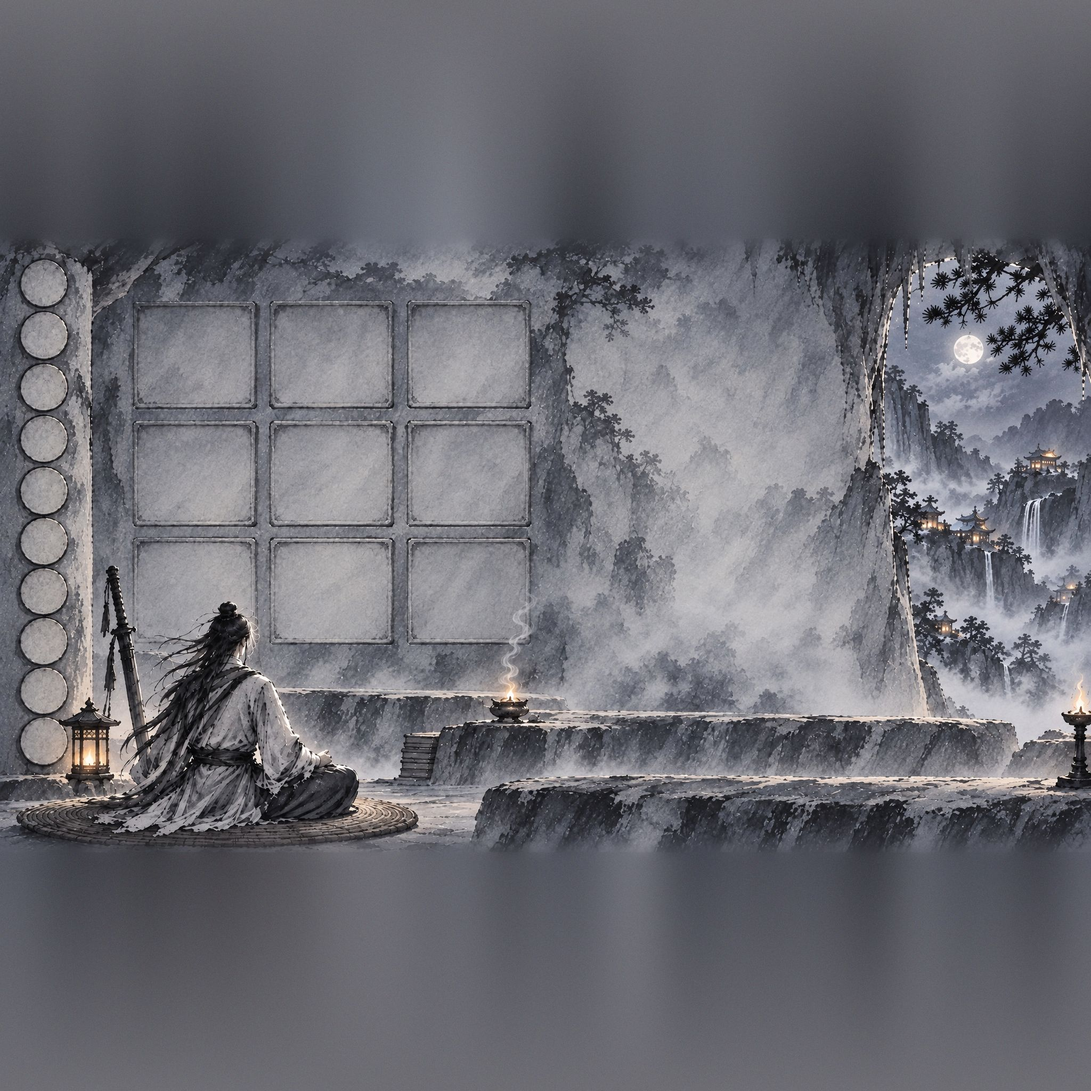
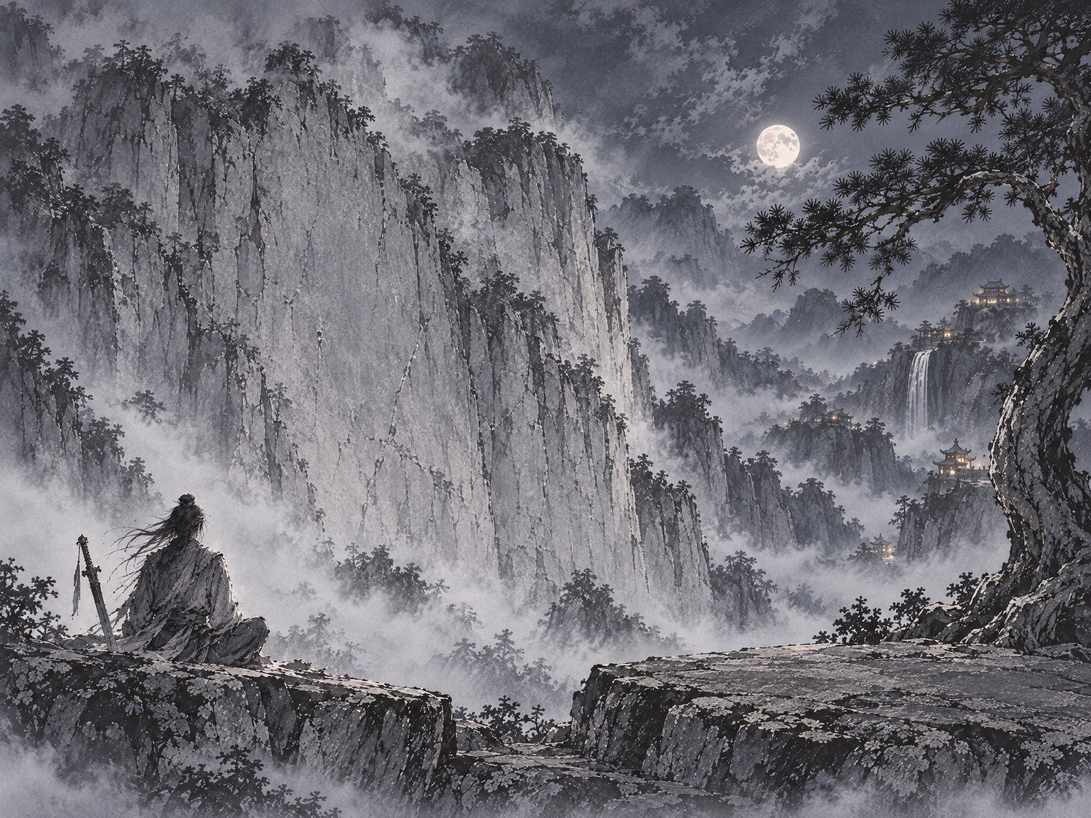
docs(bag-wugong): 原型第四版——武功改户外摩崖、行囊格收进布面

diff --git a/docs/design/bag-wugong-prototype.html b/docs/design/bag-wugong-prototype.html
@@ -51,6 +51,9 @@ button { font: inherit; color: inherit; }
 .scene.off { opacity: 0; pointer-events: none; visibility: hidden; }
 .pic { position: absolute; left: var(--pl); top: var(--pt); width: var(--pw); aspect-ratio: 16 / 9; }
 .pic > .bg { position: absolute; left: 0; right: 0; top: -38.89%; height: 177.78%; background: center / 100% 100% no-repeat; }
+/* 武功底图是 4:3 的一整幅（摩崖 + 松 + 石台），中段即 16:9 画幅 */
+#sc-wg { background: oklch(0.42 0.01 262); }
+#sc-wg .pic > .bg { top: -16.67%; height: 133.33%; }
 .vig { position: absolute; inset: 0; pointer-events: none; box-shadow: inset 0 0 60px 10px oklch(0.1 0.01 262 / .7);
   background: linear-gradient(to bottom, oklch(0.1 0.01 262 / .45), transparent 16%); }
 .head { position: absolute; left: 44px; right: 44px; top: 26px; z-index: 5; display: flex; align-items: flex-start; pointer-events: none; }
@@ -130,8 +133,9 @@ button { font: inherit; color: inherit; }
 
 /* ═══════════ 武功：崖洞壁刻 · 拓片 · 石印 ═══════════ */
 /* 石柱分类：AI 墨笔图标落在 AI 画好的空白石盘上；没有藏书的类别置灰不可点 */
-.med { position: absolute; transform: translate(-50%, -50%); width: calc(var(--pw) * .042); aspect-ratio: 1; border: 0; border-radius: 50%; background: none; cursor: pointer; padding: 0; display: grid; place-items: center; }
-.med img { width: 62%; height: 62%; object-fit: contain; filter: drop-shadow(0 1px 0 oklch(0.95 0.01 262 / .6)); opacity: .82; transition: transform .2s var(--ease); }
+.med { position: absolute; transform: translate(-50%, -50%); width: calc(var(--pw) * .036); aspect-ratio: 1; border: 0; border-radius: 50%; cursor: pointer; padding: 0; display: grid; place-items: center;
+  background: radial-gradient(circle, oklch(0.86 0.008 262 / .85) 50%, oklch(0.86 0.008 262 / 0) 72%); }
+.med img { width: 64%; height: 64%; object-fit: contain; filter: drop-shadow(0 1px 0 oklch(0.95 0.01 262 / .6)); opacity: .85; transition: transform .2s var(--ease); }
 .med:hover:not(:disabled) img { transform: scale(1.08); }
 .med.on { box-shadow: 0 0 0 1.5px oklch(0.75 0.075 76 / .75), 0 0 12px oklch(0.75 0.075 76 / .35); }
 .med.on img { filter: invert(.38) sepia(1) saturate(1.8) hue-rotate(-12deg); opacity: 1; }
@@ -139,22 +143,18 @@ button { font: inherit; color: inherit; }
 .med:focus-visible { outline: 1.5px solid var(--gold); outline-offset: 2px; }
 
 /* 壁刻：AI 画的空白石板上刻这一类的各门武学；招式像为 AI 墨线，滤镜调成阴刻 / 鎏金 / 风化 */
-.panel { position: absolute; transform: translate(-50%, -50%); width: calc(var(--pw) * .103); height: calc(var(--pw) * .088); border: 0; background: none; padding: 0; cursor: pointer;
-  display: flex; flex-direction: column; align-items: center; }
-.panel .nm { font-family: var(--font-display); font-weight: 700; font-size: clamp(12px, calc(var(--pw) * .0102), 15px); letter-spacing: .06em; white-space: nowrap; margin-top: 4%;
-  color: oklch(0.22 0.01 262 / .9); text-shadow: 0 1px 0 oklch(0.82 0.01 262 / .45), 0 -1px 0 oklch(0.05 0.01 262 / .7); }
-.panel img { flex: 1; min-height: 0; max-width: 78%; object-fit: contain; margin: 3% 0 6%; opacity: .55;
-  filter: brightness(0) drop-shadow(0 1px 0 oklch(0.8 0.01 262 / .5)); transition: transform .25s var(--ease); }
-.panel { border-radius: 3px; }
-/* 品质靠颜色：上乘石青、绝学朱砂，名字与石板内缘一线同色；寻常不着色 */
-.panel.q2 { box-shadow: inset 0 0 0 1.5px oklch(0.62 0.09 230 / .75); } .panel.q2 .nm { color: oklch(0.36 0.1 235); }
-.panel.q3 { box-shadow: inset 0 0 0 1.5px oklch(0.55 0.15 32 / .8); } .panel.q3 .nm { color: oklch(0.42 0.15 30); }
-/* 已装配：墨金描出招式像，不发光 */
-.panel.on img { opacity: 1; filter: brightness(0) invert(.42) sepia(1) saturate(1.6) hue-rotate(-12deg); }
-.panel.on .nm { color: oklch(0.42 0.09 70); } .panel.on .nm::after { content: ''; display: block; width: 60%; height: 1.5px; margin: 2px auto 0; background: oklch(0.5 0.09 70); }
-.panel.ghost img { opacity: .25; filter: brightness(0) blur(1.2px); }
-.panel.ghost .nm { opacity: .55; }
-.panel.sel { outline: 2px solid oklch(0.75 0.075 76 / .8); outline-offset: 1px; }
+/* 壁刻：名字与招式像直接刻在崖面上，不画框；品质靠名字颜色与名下一道短色线 */
+.panel { position: absolute; transform: translate(-50%, -50%); width: calc(var(--pw) * .1); height: calc(var(--pw) * .085); border: 0; padding: 0; cursor: pointer; border-radius: 50%;
+  display: flex; flex-direction: column; align-items: center; background: radial-gradient(ellipse 52% 54% at 50% 52%, oklch(0.84 0.008 262 / .78) 35%, oklch(0.84 0.008 262 / 0) 80%); }
+.panel .nm { font-family: var(--font-display); font-weight: 700; font-size: clamp(12px, calc(var(--pw) * .0102), 15px); letter-spacing: .06em; white-space: nowrap;
+  color: oklch(0.2 0.01 262); text-shadow: 0 1px 0 oklch(0.9 0.01 262 / .55); }
+.panel .nm::after { content: ''; display: block; width: 50%; height: 2px; margin: 2px auto 0; border-radius: 1px; background: transparent; }
+.panel.q2 .nm { color: oklch(0.36 0.1 235); } .panel.q2 .nm::after { background: oklch(0.5 0.1 235 / .8); }
+.panel.q3 .nm { color: oklch(0.42 0.15 30); } .panel.q3 .nm::after { background: oklch(0.52 0.15 30 / .85); }
+.panel img { flex: 1; min-height: 0; max-width: 80%; object-fit: contain; margin: 2% 0 4%; opacity: .72; filter: brightness(0) drop-shadow(0 1px 0 oklch(0.9 0.01 262 / .5)); transition: transform .25s var(--ease); }
+.panel.on img { opacity: 1; filter: brightness(0) invert(.42) sepia(1) saturate(1.6) hue-rotate(-12deg) drop-shadow(0 1px 0 oklch(0.9 0.01 262 / .4)); }
+.panel.ghost img { opacity: .22; filter: brightness(0) blur(1.2px); } .panel.ghost .nm { opacity: .5; }
+.panel.sel { background: radial-gradient(ellipse 52% 54% at 50% 52%, oklch(0.86 0.05 80 / .9) 35%, oklch(0.86 0.05 80 / 0) 80%); }
 .panel:hover img { transform: scale(1.05); }
 .panel:focus-visible { outline: 1.5px solid var(--gold); outline-offset: 2px; }
 .pager { position: absolute; transform: translateX(-50%); display: flex; gap: 14px; align-items: center; font-family: var(--font-display); font-size: 15px; color: var(--ink); text-shadow: 0 0 6px #000; }
@@ -162,7 +162,7 @@ button { font: inherit; color: inherit; }
 .pager button:disabled { opacity: .3; cursor: default; }
 
 /* 拓片：AI 画的空白拓片纸钉在石壁上，写选中那门的详情 */
-.rub { position: absolute; left: 51.5%; top: 2%; width: 37%; height: 68%; background: url('../../code/public/art/wugong/rubbing.png') center / 100% 100% no-repeat;
+.rub { position: absolute; left: 55%; top: 6%; width: 33%; height: 70%; background: url('../../code/public/art/wugong/rubbing.png') center / 100% 100% no-repeat;
   filter: drop-shadow(0 8px 18px #000); padding: 6.5% 6.5% 4.5%; color: var(--paper-ink); display: flex; flex-direction: column; container-type: inline-size; }
 .rub .top { display: flex; gap: 4%; }
 .rub .fig { width: 24%; aspect-ratio: 1; flex: none; display: grid; place-items: center; }
@@ -210,13 +210,13 @@ button { font: inherit; color: inherit; }
 @keyframes rubin { from { opacity: .2; transform: translateY(-6px) rotate(-.6deg); } }
 
 /* 石印装配：AI 画的空白石印立在石台上，刻装配的名字；第一枚大印是主修内功 */
-.seals { position: absolute; left: 39.5%; bottom: 20%; width: 58%; display: flex; align-items: flex-end; gap: .55%; }
-.seal { position: relative; flex: none; width: calc(var(--pw) * .034); aspect-ratio: 155 / 240; border: 0; padding: 0; cursor: pointer;
+.seals { position: absolute; left: 54%; bottom: 13%; width: 46%; display: flex; align-items: flex-end; gap: .55%; }
+.seal { position: relative; flex: none; width: calc(var(--pw) * .03); aspect-ratio: 155 / 240; border: 0; padding: 0; cursor: pointer;
   background: url('../../code/public/art/wugong/seal.png') center / 100% 100% no-repeat; filter: drop-shadow(0 4px 6px #000);
   display: grid; place-items: center; transition: transform .2s var(--ease); }
 .seal span { writing-mode: vertical-rl; font-family: var(--font-display); font-weight: 700; font-size: clamp(11px, calc(var(--pw) * .0092), 14px); letter-spacing: 0; line-height: 1; white-space: nowrap;
   padding: 5px 2px; border-radius: 2px; background: oklch(0.12 0.01 262 / .78); color: oklch(0.93 0.015 85); }
-.seal.main { width: calc(var(--pw) * .042); }
+.seal.main { width: calc(var(--pw) * .037); }
 .seal.main span { color: oklch(0.86 0.1 78); font-size: clamp(12px, calc(var(--pw) * .0102), 15px); }
 .seal.empty { opacity: .7; cursor: default; filter: grayscale(1) drop-shadow(0 4px 6px #000); }
 .seal:not(.empty):hover { transform: translateY(-3px); }
@@ -248,7 +248,7 @@ button { font: inherit; color: inherit; }
   </section>
   <section class="scene off" id="sc-wg">
     <div class="pic"><div class="bg" style="background-image:url('../../code/public/art/wugong/bg-tall.jpg')"></div>
-      <div id="meds"></div><div id="panels"></div><div class="pager" id="pager" style="left:30.4%;top:68.5%"></div>
+      <div id="meds"></div><div id="panels"></div><div class="pager" id="pager" style="left:42%;top:63%"></div>
       <div class="rub" id="rub"></div><div class="seals" id="seals"></div></div>
     <div class="vig"></div>
     <div class="head"><div><h1>武功</h1></div></div>
@@ -284,7 +284,7 @@ new ResizeObserver(() => { place(); if (page === 'bag') drawBag(); }).observe($(
 const WEAR_AT = { 佩饰: [[27, 28], [37.5, 24]], 衣甲: [[25.5, 37], [12, 33]], 暗器: [[27, 47], [37.5, 46]], 兵器: [[20.5, 56], [12, 58]] };
 const LEFT = { 衣甲: 1, 兵器: 1 };
 /* 包袱布面（画幅 %）：格子在这块里按格数排、居中 */
-const CLOTH = { x: 50, y: 33.5, w: 42, h: 52 };
+const CLOTH = { x: 47.5, y: 37.5, w: 44, h: 47 };
 let sort = 'new', sel = null;
 const cellsOf = (it) => SHAPE[it.slot][0] * SHAPE[it.slot][1];
 const better = (it) => { const w = st.worn[it.slot]; if (!w) return false; const sum = (g) => BASE.reduce((a, k) => a + (g.base[k] || 0) * (k === '气血' ? .1 : 1), 0); return sum(it) > sum(w); };
@@ -364,11 +364,11 @@ $('sellLow').onclick = () => { const low = st.bag.filter((g) => g.grade < 3); st
 /* 石柱十枚石盘（画幅 %），自上而下：内功 + 九类 */
 const CATS = ['内功', '剑', '刀', '枪', '棍', '拳', '掌', '指', '腿', '暗器'];
 const CAT_FILE = { 内功: 'neigong', 剑: 'jian', 刀: 'dao', 枪: 'qiang', 棍: 'gun', 拳: 'quan', 掌: 'zhang', 指: 'zhi', 腿: 'tui', 暗器: 'anqi' };
-const MED_Y = [7.6, 16, 24.4, 32.6, 41, 49.3, 57.4, 65.6, 73.8, 82];
+const MED_Y = [6, 13, 20, 27, 34, 41, 48, 55, 62, 69];
 /* 壁上 3 × 3 空白石板中心（画幅 %） */
-const PANEL_X = [17.8, 30.3, 43], PANEL_Y = [19, 38.6, 58.2];
+const PANEL_X = [16, 29, 42], PANEL_Y = [13, 32, 51];
 /* 左下那块石板被打坐的人挡住，不刻字：一页八门 */
-const SLOTS = [0, 1, 2, 3, 4, 5, 7, 8], PER = SLOTS.length;
+const SLOTS = [0, 1, 2, 3, 4, 5, 7, 8], PER = SLOTS.length; // 左下是打坐的人
 const CN = ['', '一', '二', '三', '四', '五', '六', '七'];
 const QN = { 寻常: 1, 上乘: 2, 绝学: 3 };
 /* 招式像：每类四张 AI 墨像，同类各门按名字散列取一张 */
@@ -392,7 +392,7 @@ const itemsOf = (c) => c === '内功' ? NG.map((n) => ({ ...n, cat: '内功', ng
 function drawWg() {
   // 石柱分类
   $('meds').innerHTML = CATS.map((c, i) => { const n = itemsOf(c).length;
-    return `<button class="med${cat === c ? ' on' : ''}" style="left:4.05%;top:${MED_Y[i]}%" ${n ? '' : 'disabled'} aria-label="${c}" data-c="${c}" data-tip="${c} · ${n ? n + (c === '内功' ? ' 部' : ' 门') : '尚无'}"><img src="${ART}/wugong/ic-${CAT_FILE[c]}.png" alt=""></button>`; }).join('');
+    return `<button class="med${cat === c ? ' on' : ''}" style="left:3.6%;top:${MED_Y[i]}%" ${n ? '' : 'disabled'} aria-label="${c}" data-c="${c}" data-tip="${c} · ${n ? n + (c === '内功' ? ' 部' : ' 门') : '尚无'}"><img src="${ART}/wugong/ic-${CAT_FILE[c]}.png" alt=""></button>`; }).join('');
   $('meds').querySelectorAll('.med').forEach((b) => b.onclick = () => { cat = b.dataset.c; wpage = 0; drawWg(); });
   // 壁刻：这一类的各门，九门一页
   const items = itemsOf(cat), pages = Math.max(1, Math.ceil(items.length / PER));

diff --git a/changelog.d/feature-bag-wugong-redesign.md b/changelog.d/feature-bag-wugong-redesign.md
@@ -3,3 +3,4 @@
 - **行囊与武功改版原型**：`docs/design/bag-wugong-prototype.html`。行囊为雾中人影 + 蓝印花布包袱（人影四处挂点引出穿戴，布面上形态格，点物件出布贴纸签）；武功为崖洞石壁（石柱分类、壁刻各门武学、拓片写详情与招式、石印装配）。方向挑选页 `docs/design/concepts/bag-wugong-pick*.html`、`bag-pick-4.html`；素材 `art/xingnang/`、`art/wugong/`（底图与上下续画版、纸签、拓片、石印、十个招式像）。
 - **原型第二版**：两页底图提亮为淡墨；武功石柱改 AI 墨笔类别图标（无藏书置灰不可点）、壁刻品质改用石青 / 朱砂描边与名字色、已装配改墨金不发光、每类四张招式像按武学分配、拓片名字随品质着色、特效带图标、招式效果整行不截断、熟练改写档名（圆满盖朱印）、装配与穿戴 / 卖出改 AI 笔刷按钮、石印名加墨底；行囊穿戴改两左两右、属性合计横排垫晕墨。
 - **原型第三版**：两页底图以武功页洞口外那块画为风格参考重绘（雾气留白、平滑灰阶，去掉满屏碎石纹与草地纹理，行囊去掉营火与旗杆），布局与坐标不变；背包空格只留极淡底、品阶线收细、极品不发光；武功分类图标与壁刻名改深墨落在淡石上。附据点场景与门派图重绘样张 `docs/design/concepts/restyle-samples.html`。
+- **原型第四版**：武功底图重画为户外摩崖（参考前尘、修炼与行囊同一家画法，去掉洞内方格石板与石柱），一整幅 4:3 画铺满舞台上下；壁刻改为直接刻在崖面、不画框，拓片挂在松下，石印落在右侧石台；行囊背包格收进布面中央，不再压到布边与铺盖卷。
